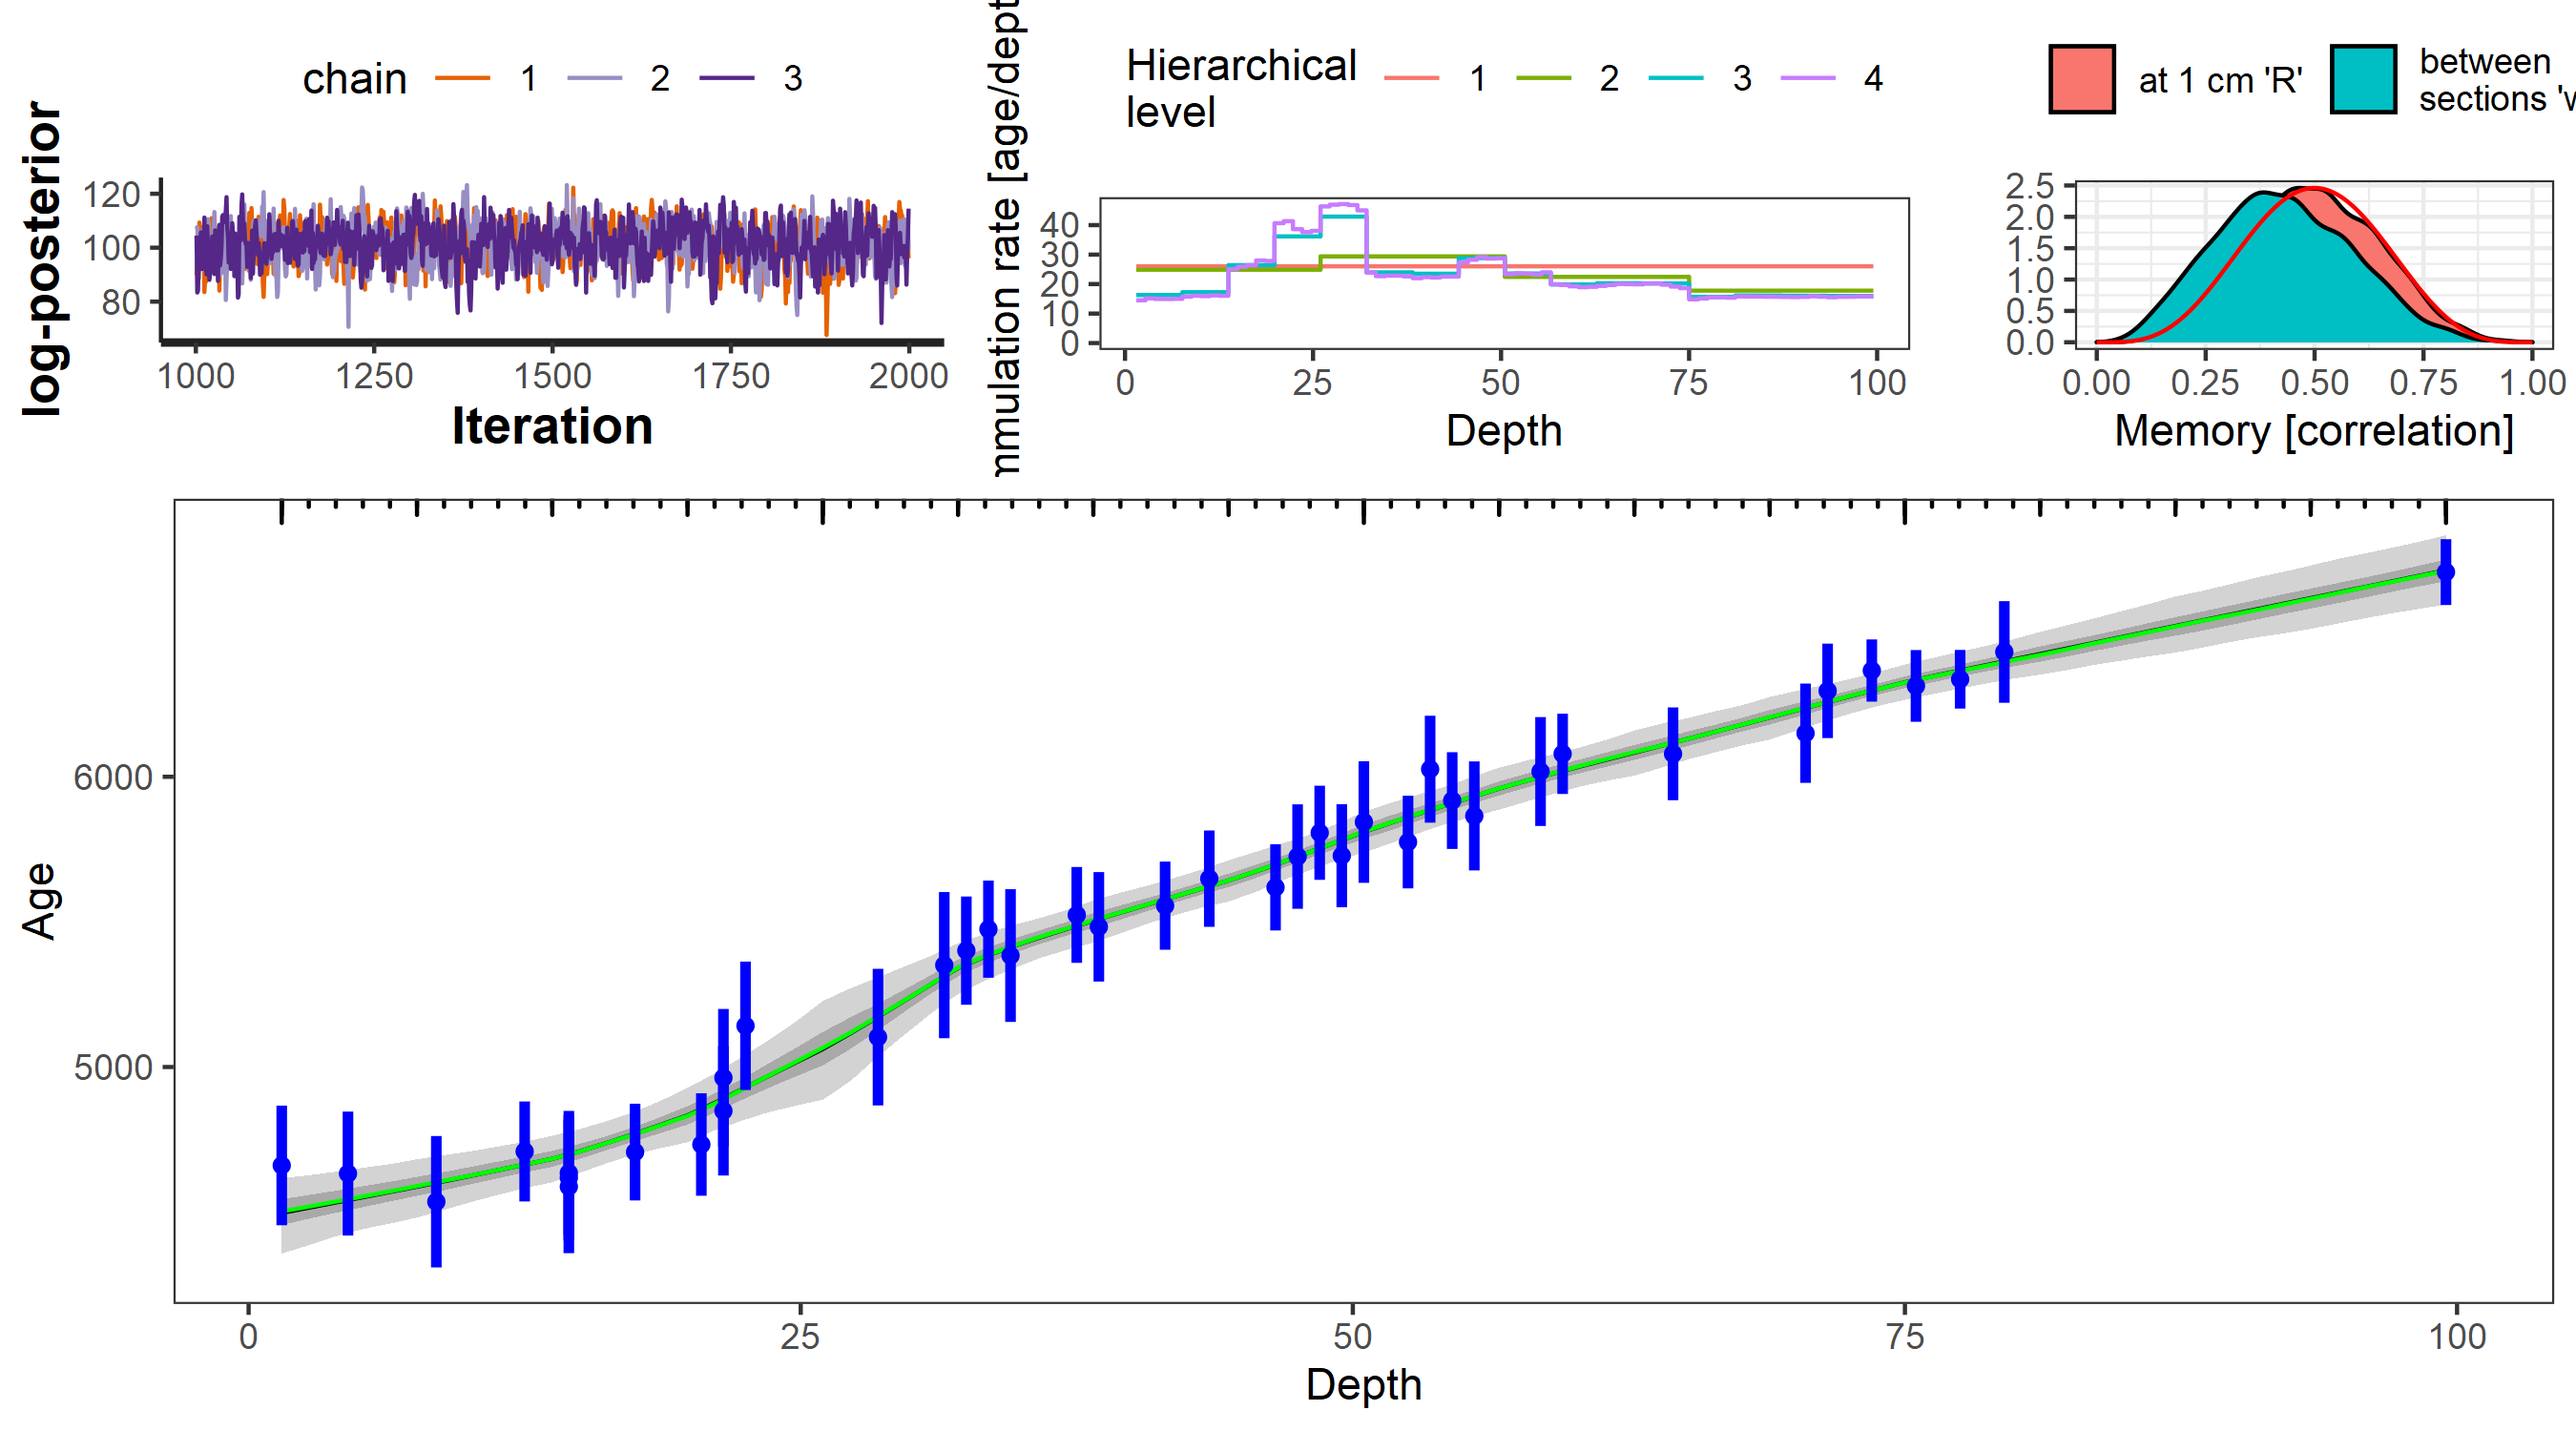
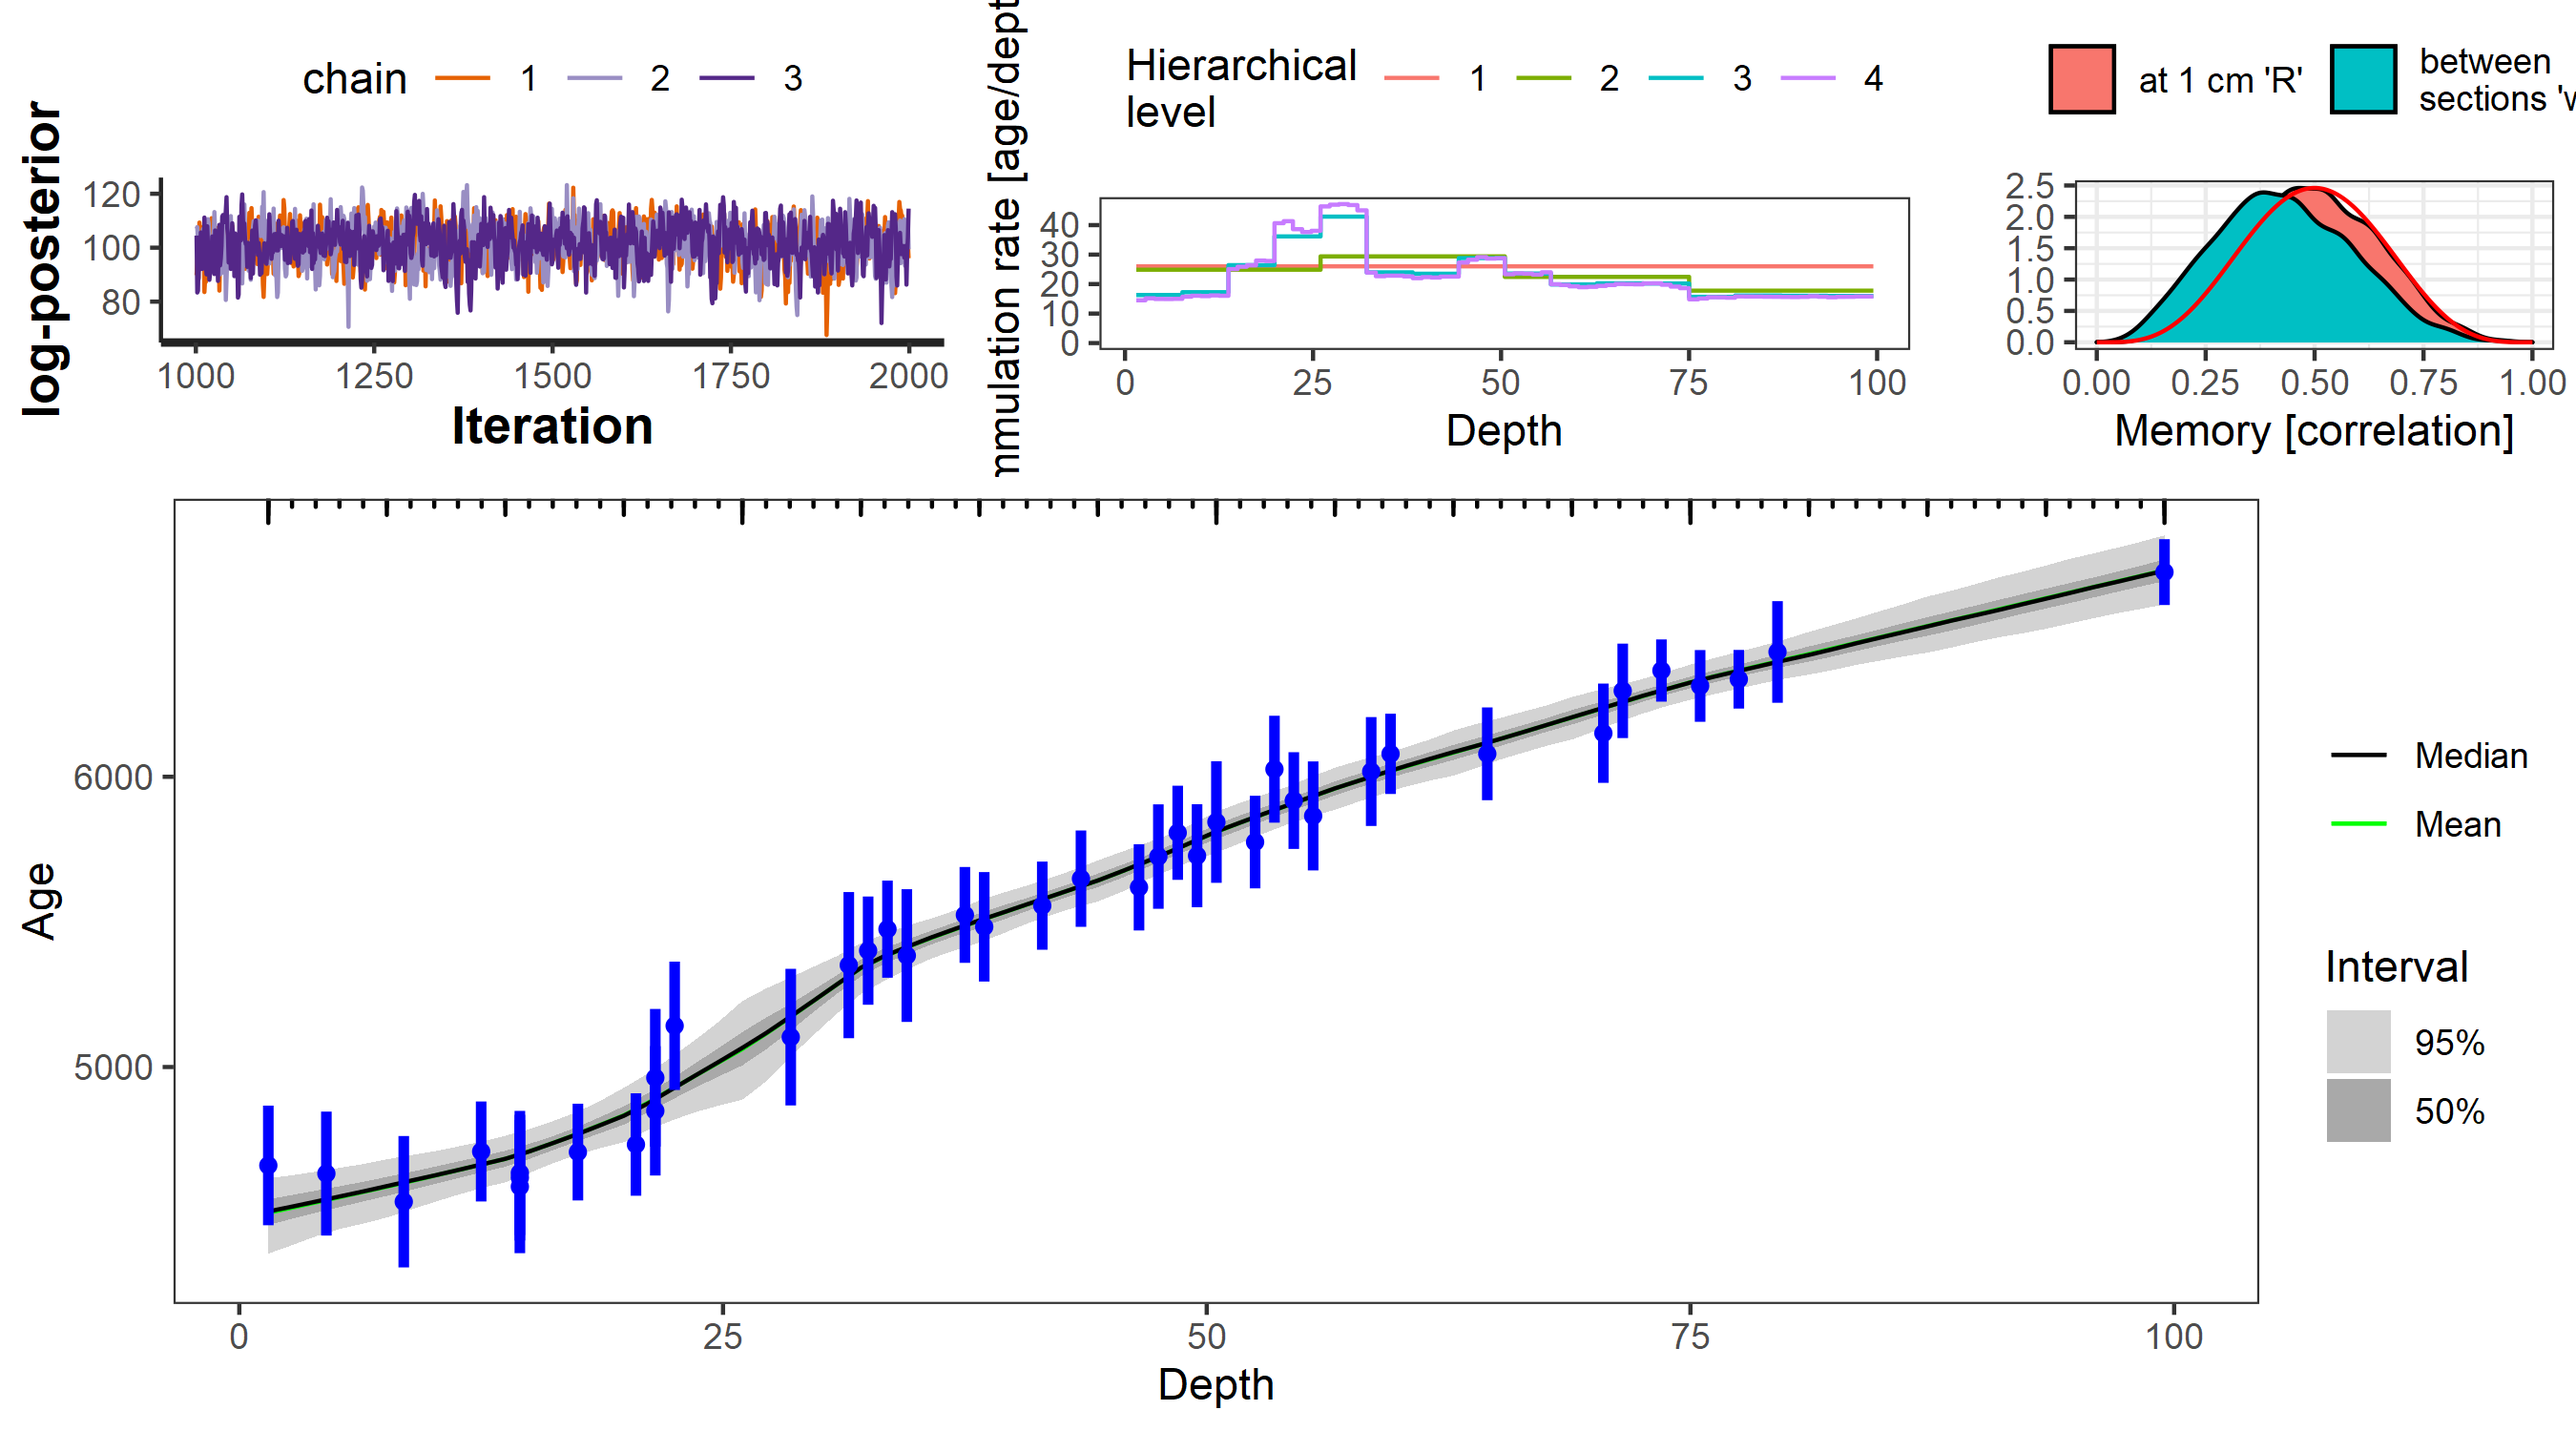
update readme to include accumulation rate methods

diff --git a/README.md b/README.md
@@ -1,7 +1,7 @@
 hamstr: Hierarchical Accumulation Modelling with Stan and R.
 ================
 Andrew M. Dolman
-2021-05-10
+2021-05-17
 
 ------------------------------------------------------------------------
 
@@ -87,7 +87,7 @@ compare_14C_PDF(MSB2K$age[i], MSB2K$error[i], cal_curve = "marine20") +
 ### Fitting age-models with **hamstr**
 
 By default **hamstr** runs with three Markov chains and these can be run
-in parallel. This code will assign 3 (processor) cores as long as the
+in parallel. This code will assign 3 processor cores as long as the
 machine has at least 3. The number of cores can also be set for specific
 calls of the `hamstr` function using the `cores` argument.
 
@@ -137,21 +137,22 @@ plot(hamstr_fit_1, summarise = FALSE, plot_diagnostics = FALSE)
 
 #### Mean accumulation rate
 
-There is no need to specify a prior value for the mean accumulation
-rate, parameter `acc.mean` in Bacon, as in **hamstr**, this overall mean
+There is no need to specify a prior value for the mean accumulation rate
+(parameter `acc.mean` in Bacon) as in **hamstr**, this overall mean
 accumulation rate is a full parameter estimated from the data.
 
 By default, **hamstr** uses robust linear regression (`MASS::rlm`) to
 estimate the mean accumulation rate from the data, and then uses this to
 parametrise a prior distribution for the overall mean accumulation rate.
 This prior is a half-normal with zero mean and standard deviation equal
-to 10 times the estimated mean. Although this does introduce an element
-of “data-peaking”, using the data twice (for both the prior and
-likelihood), the resulting prior is only weakly-informative. The
-advantage is that the prior is automatically scaled appropriately
-regardless of the units of depth or age.
+to 10 times the estimated mean. Although this does introduce a slight
+element of “double-dipping”, using the data twice (for both the prior
+and likelihood), the resulting prior is only weakly-informative. The
+advantage of this approach is that the prior is automatically scaled
+appropriately regardless of the units of depth or age.
 
-This prior can be checked visually against the posterior.
+This prior can be checked visually against the posterior. The posterior
+distribution should be much narrower than the weakly informative prior.
 
 ``` r
 plot(hamstr_fit_1, type = "acc_mean_prior_post")
@@ -159,21 +160,24 @@ plot(hamstr_fit_1, type = "acc_mean_prior_post")
 
 ![](readme_files/figure-gfm/unnamed-chunk-10-1.png)<!-- -->
 
-Default parameter values for the shape of the accumulation prior
-`acc_shape = 1.5`, the memory mean `mem_mean = 0.5` and strength
-`mem_strength = 10`, are the same as for Bacon &gt;= 2.5.1.
+#### Other hyperparameters
 
-#### Setting the thickness and number of discrete sections
+Default parameter values for the shape of the gamma distributed
+accumulation rates `acc_shape = 1.5`, the memory mean `mem_mean = 0.5`
+and memory strength `mem_strength = 10`, are the same as for Bacon &gt;=
+2.5.1.
+
+### Setting the thickness, number, and hierarchical structure of the discrete sections
 
 One of the more critical tuning parameters in the **Bacon** model is the
 parameter `thick`, which determines the thickness and number of discrete
-core sections. Finding a good or optimal value for a given core is often
-critical to getting a good age-depth model. Too few sections and the
-resulting age-model is very “blocky” and can miss changes in
-sedimentation rate; however, counter-intuitively, too many very thin
-sections can also often result in an age-model that “under-fits” the
-data - ploughing a straight line through the age-control points when a
-lower resolution model shows variation in accumulation rate.
+down-core sediment sections modelled. Finding a good or optimal value
+for a given core is often critical to getting a good age-depth model.
+Too few sections and the resulting age-model is very “blocky” and can
+miss changes in sedimentation rate; however, counter-intuitively, too
+many very thin sections can also often result in an age-model that
+“under-fits” the data - a straight line through the age-control points
+when a lower resolution model shows variation in accumulation rate.
 
 The key structural difference between **Bacon** and **hamstr** models is
 that with **hamstr** the sediment core is modelled at multiple
@@ -204,24 +208,15 @@ the number of new child sections per level, are approximately equal,
 e.g. c(4, 4, 4, 4). The total number of sections at the finest level is
 set so that the resolution is 1 cm per section, up to a total length of
 900 cm, above which the default remains 900 sections and a coarser
-resolution is used. This can changed with the parameter K.
+resolution is used. This can be changed from the default via the
+parameter `K`.
 
-Here is an example of a coarser model.
-
-``` r
-hamstr_fit_2 <- hamstr(depth = MSB2K_cal$depth,
-                   obs_age = MSB2K_cal$age.14C.cal,
-                   obs_err = MSB2K_cal$age.14C.cal.se,
-                   K = c(5, 5))
-```
-
-``` r
-plot(hamstr_fit_2)
-#> Joining, by = "idx"
-#> Joining, by = "alpha_idx"
-```
-
-![](readme_files/figure-gfm/unnamed-chunk-12-1.png)<!-- -->
+For a given shape parameter `acc_shape`, increasing the number of
+modelled hierarchical levels increases the total variance in the
+accumulation rates at the highest / finest resolution level. From
+**hamstr** version 0.5.0 and onwards, the total variance is controlled
+by modifying the shape parameter according to the number of hierarchical
+levels.
 
 ### Getting the fitted age models
 
@@ -302,6 +297,41 @@ summary(age.mods.interp)
 #> # ... with 91 more rows
 ```
 
+### Getting and plotting the accumulation rate
+
+The down-core accumulation rates are returned and plotted in both
+depth-per-time, and time-per-depth units. If the input data are in years
+and cm then the units will be cm/kyr and yrs/cm respectively. Note that
+the acc\_mean parameter in both **hamstr** and Bacon is parametrised in
+terms of time per depth.
+
+``` r
+plot(hamstr_fit_1, type = "acc_rates")
+#> Joining, by = "idx"
+```
+
+![](readme_files/figure-gfm/unnamed-chunk-15-1.png)<!-- -->
+
+``` r
+summary(hamstr_fit_1, type = "acc_rates") 
+#> Joining, by = "idx"
+#> # A tibble: 160 x 12
+#>    depth c_depth_top c_depth_bottom acc_rate_unit   idx  mean    sd `2.5%` `25%`
+#>    <dbl>       <dbl>          <dbl> <chr>         <dbl> <dbl> <dbl>  <dbl> <dbl>
+#>  1  1.5         1.5            2.72 depth_per_ti~     1 102.   83.6   27.4  52.7
+#>  2  2.72        2.72           3.95 depth_per_ti~     2  91.4  59.4   29.0  53.0
+#>  3  3.95        3.95           5.18 depth_per_ti~     3  89.4  55.0   30.6  53.0
+#>  4  5.18        5.18           6.4  depth_per_ti~     4  88.6  54.1   30.9  52.9
+#>  5  6.4         6.4            7.62 depth_per_ti~     5  88.3  54.6   31.2  53.0
+#>  6  7.62        7.62           8.85 depth_per_ti~     6  78.0  35.8   34.1  53.7
+#>  7  8.85        8.85          10.1  depth_per_ti~     7  78.5  39.5   31.3  51.7
+#>  8 10.1        10.1           11.3  depth_per_ti~     8  79.8  43.4   29.9  51.4
+#>  9 11.3        11.3           12.5  depth_per_ti~     9  80.0  43.9   29.0  50.1
+#> 10 12.5        12.5           13.8  depth_per_ti~    10  80.4  49.4   29.3  50.2
+#> # ... with 150 more rows, and 3 more variables: `50%` <dbl>, `75%` <dbl>,
+#> #   `97.5%` <dbl>
+```
+
 ### Diagnostic plots
 
 Additional diagnostic plots are available. See ?plot.hamstr\_fit for
@@ -353,23 +383,6 @@ rstan::traceplot(hamstr_fit_1$fit, par = c("alpha[1]"),
 ```
 
 ![](readme_files/figure-gfm/unnamed-chunk-20-1.png)<!-- -->
-
-`alpha[2]` to `alpha[6]` will be the first 5 accumulations rates at the
-coarsest hierarchical level.
-
-``` r
-plot(hamstr_fit_1, type = "hier")
-#> Joining, by = "alpha_idx"
-```
-
-![](readme_files/figure-gfm/unnamed-chunk-21-1.png)<!-- -->
-
-``` r
-rstan::traceplot(hamstr_fit_1$fit, par = paste0("alpha[", 2:6, "]"),
-                 inc_warmup = TRUE)
-```
-
-![](readme_files/figure-gfm/unnamed-chunk-21-2.png)<!-- -->
 
 ### References
 
